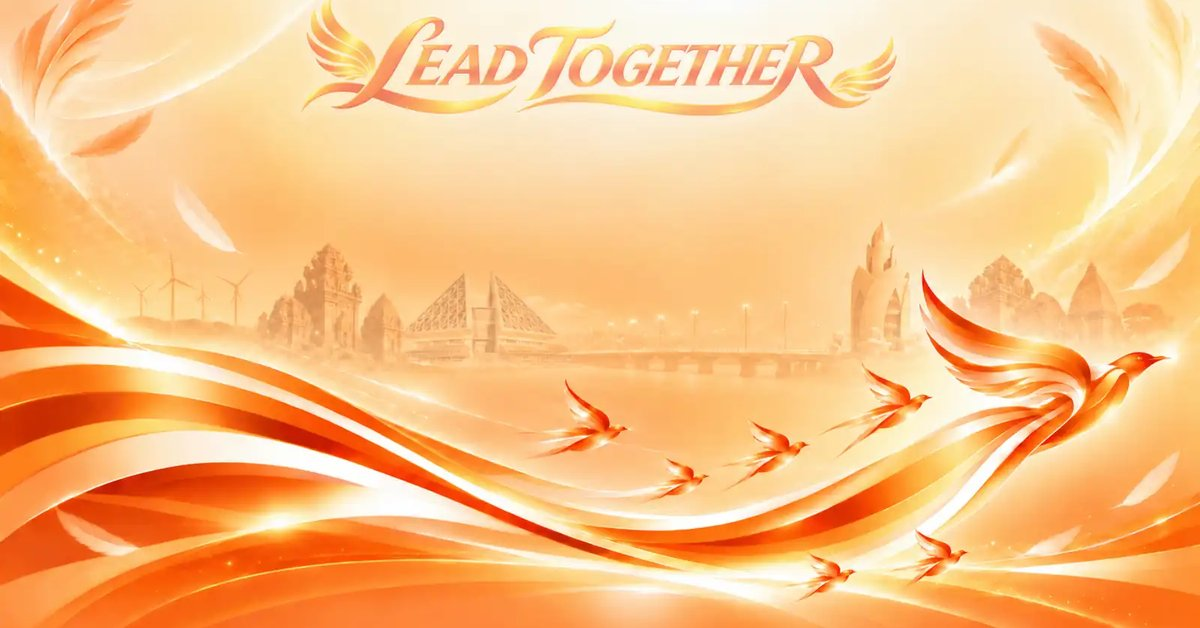
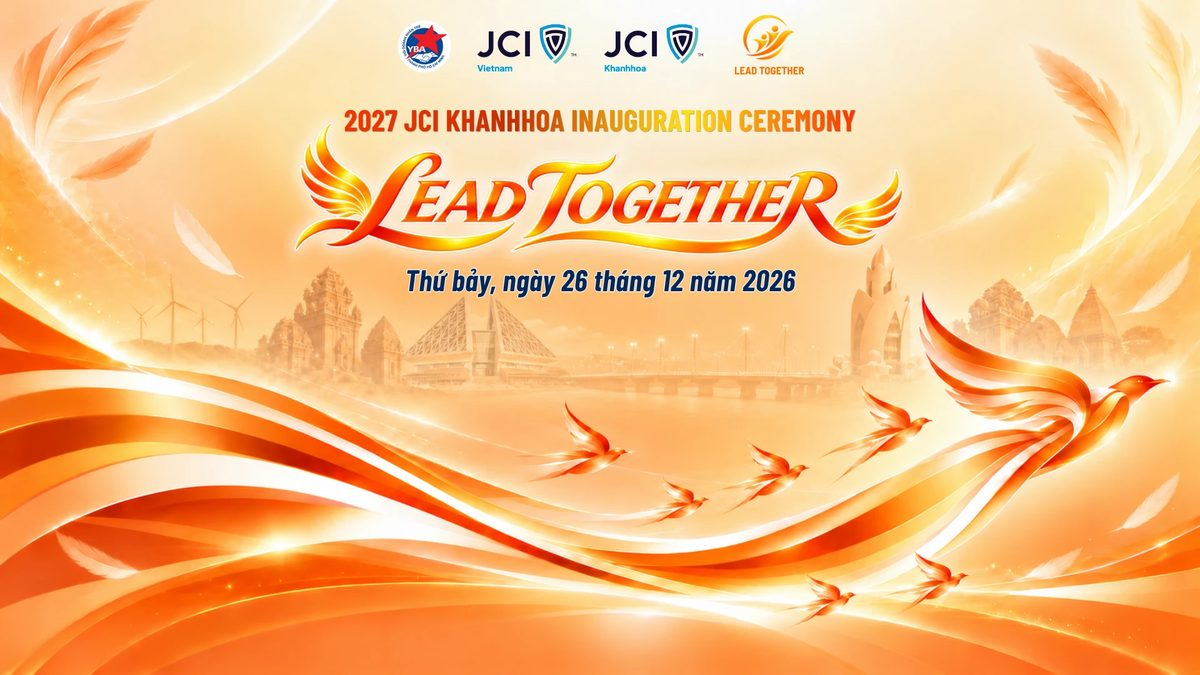
Thumbnail chia sẻ: dùng ảnh keyvisual mới (nén JPG 1200x675), thêm Open Graph cho các trang con

diff --git a/chu-gian-hang/index.html b/chu-gian-hang/index.html
@@ -7,6 +7,18 @@
 <meta name="referrer" content="no-referrer">
 <meta name="theme-color" content="#1B0B03">
 <title>Khách quan tâm gian hàng · IC JCI Khanhhoa 2027</title>
+<meta name="description" content="Quản lý khách quan tâm gian hàng tại 2027 JCI KHANHHOA INAUGURATION CEREMONY — Lead Together.">
+<meta property="og:type" content="website">
+<meta property="og:site_name" content="JCI Khanhhoa">
+<meta property="og:locale" content="vi_VN">
+<meta property="og:url" content="https://jcikhanhhoa.io.vn/chu-gian-hang/">
+<meta property="og:title" content="Khách quan tâm gian hàng · 2027 JCI Khanhhoa Inauguration Ceremony">
+<meta property="og:description" content="Quản lý khách quan tâm gian hàng tại 2027 JCI KHANHHOA INAUGURATION CEREMONY — Lead Together.">
+<meta property="og:image" content="https://jcikhanhhoa.io.vn/assets/og-image.jpg">
+<meta property="og:image:type" content="image/jpeg">
+<meta property="og:image:width" content="1200">
+<meta property="og:image:height" content="675">
+<meta name="twitter:card" content="summary_large_image">
 <link rel="preconnect" href="https://fonts.googleapis.com">
 <link rel="preconnect" href="https://fonts.gstatic.com" crossorigin>
 <link href="https://fonts.googleapis.com/css2?family=Barlow+Semi+Condensed:wght@600;700&family=Plus+Jakarta+Sans:wght@500;600;700;800&family=Montserrat:wght@400;500;600;700;800&display=swap" rel="stylesheet">

diff --git a/gian-hang/index.html b/gian-hang/index.html
@@ -6,6 +6,18 @@
 <meta name="robots" content="noindex">
 <meta name="theme-color" content="#1B0B03">
 <title>Gian hàng · IC JCI Khanhhoa 2027</title>
+<meta name="description" content="Gian hàng tại 2027 JCI KHANHHOA INAUGURATION CEREMONY — Lead Together.">
+<meta property="og:type" content="website">
+<meta property="og:site_name" content="JCI Khanhhoa">
+<meta property="og:locale" content="vi_VN">
+<meta property="og:url" content="https://jcikhanhhoa.io.vn/gian-hang/">
+<meta property="og:title" content="Gian hàng · Lễ nhậm chức và ra mắt Ban điều hành nhiệm kỳ 2027 của JCI Khanhhoa">
+<meta property="og:description" content="Gian hàng tại 2027 JCI KHANHHOA INAUGURATION CEREMONY — Lead Together.">
+<meta property="og:image" content="https://jcikhanhhoa.io.vn/assets/og-image.jpg">
+<meta property="og:image:type" content="image/jpeg">
+<meta property="og:image:width" content="1200">
+<meta property="og:image:height" content="675">
+<meta name="twitter:card" content="summary_large_image">
 <link rel="preconnect" href="https://fonts.googleapis.com">
 <link rel="preconnect" href="https://fonts.gstatic.com" crossorigin>
 <link href="https://fonts.googleapis.com/css2?family=Barlow+Semi+Condensed:wght@600;700&family=Plus+Jakarta+Sans:wght@500;600;700;800&family=Montserrat:wght@400;500;600;700;800&display=swap" rel="stylesheet">

diff --git a/nha-tai-tro/index.html b/nha-tai-tro/index.html
@@ -4,6 +4,17 @@
 <meta charset="utf-8">
 <meta name="viewport" content="width=device-width, initial-scale=1">
 <title>Gói &amp; quyền lợi nhà tài trợ · 2027 JCI Khanhhoa Inauguration Ceremony</title>
+<meta property="og:type" content="website">
+<meta property="og:site_name" content="JCI Khanhhoa">
+<meta property="og:locale" content="vi_VN">
+<meta property="og:url" content="https://jcikhanhhoa.io.vn/nha-tai-tro/">
+<meta property="og:title" content="Gói &amp; quyền lợi nhà tài trợ · Lễ nhậm chức và ra mắt Ban điều hành nhiệm kỳ 2027 của JCI Khanhhoa">
+<meta property="og:description" content="Bốn gói đồng hành và quyền lợi nhà tài trợ của 2027 JCI KHANHHOA INAUGURATION CEREMONY (26/12/2026, Nha Trang). Lead Together.">
+<meta property="og:image" content="https://jcikhanhhoa.io.vn/assets/og-image.jpg">
+<meta property="og:image:type" content="image/jpeg">
+<meta property="og:image:width" content="1200">
+<meta property="og:image:height" content="675">
+<meta name="twitter:card" content="summary_large_image">
 <meta name="description" content="Bốn gói đồng hành và quyền lợi nhà tài trợ của 2027 JCI Khanhhoa Inauguration Ceremony (26/12/2026, Nha Trang). Lead Together.">
 <meta name="theme-color" content="#1B0B03">
 <link rel="preconnect" href="https://fonts.googleapis.com">

diff --git a/index.html b/index.html
@@ -15,7 +15,7 @@
 <meta property="og:image" content="https://jcikhanhhoa.io.vn/assets/og-image.jpg">
 <meta property="og:image:type" content="image/jpeg">
 <meta property="og:image:width" content="1200">
-<meta property="og:image:height" content="628">
+<meta property="og:image:height" content="675">
 <meta name="twitter:card" content="summary_large_image">
 <meta name="theme-color" content="#1B0B03">
 <link rel="preconnect" href="https://fonts.googleapis.com">
